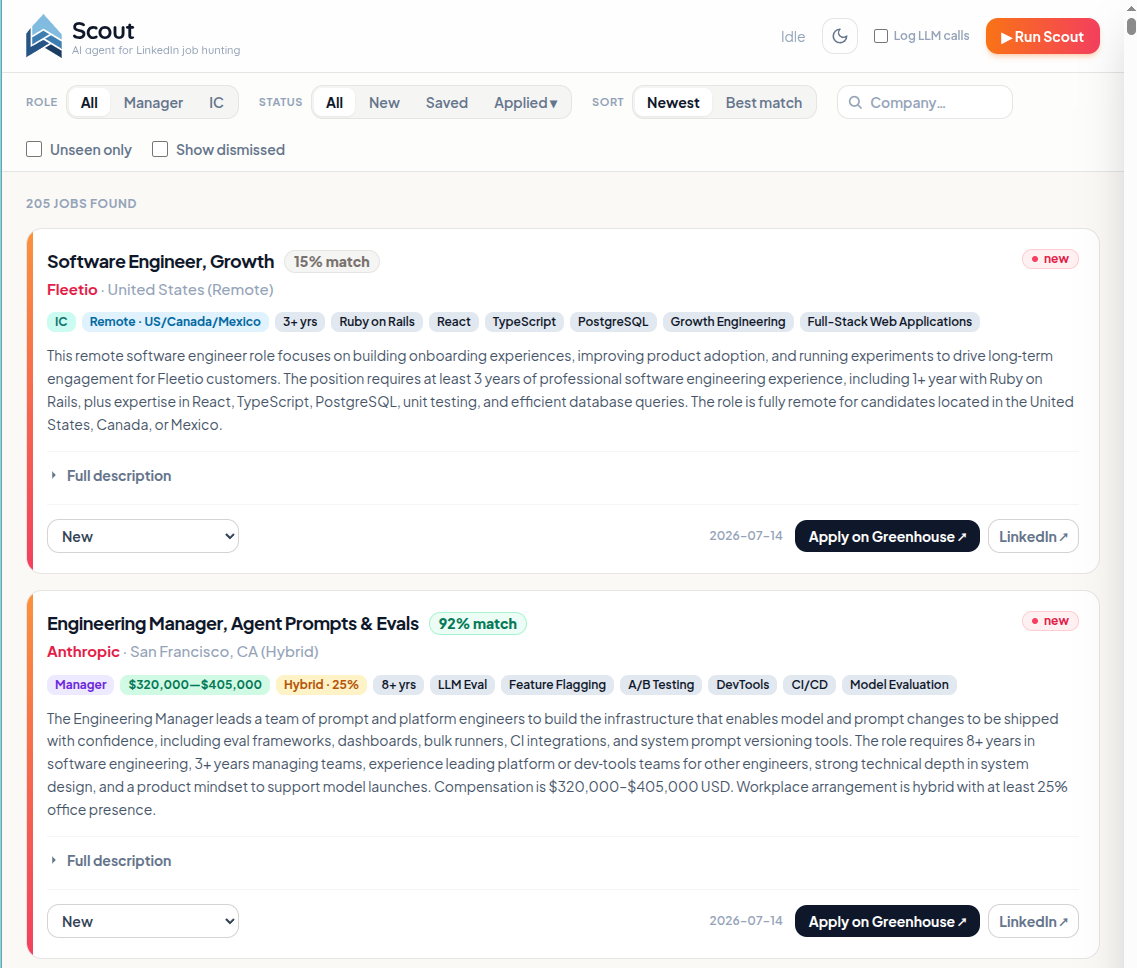
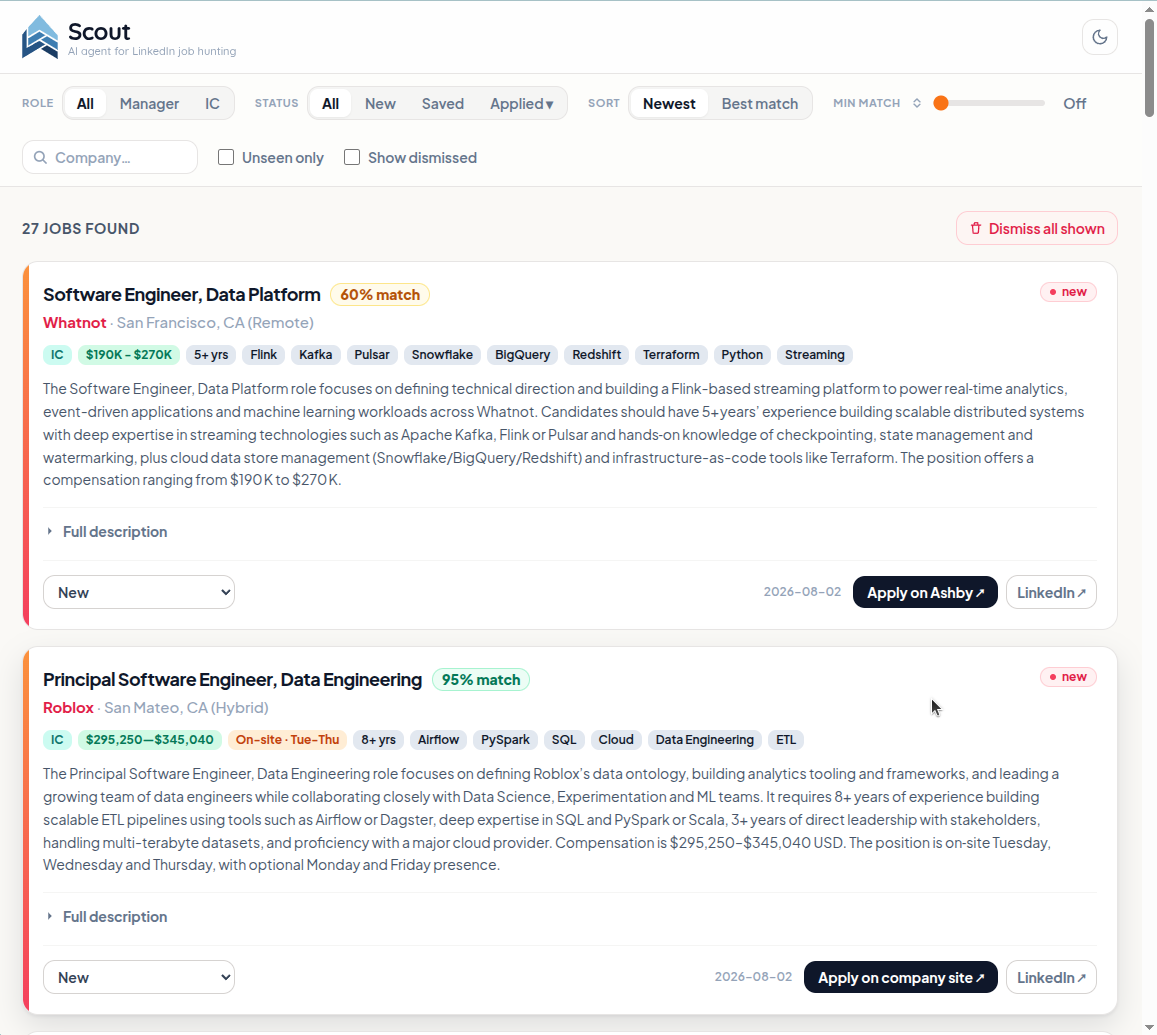
Add versioning system, release-branch workflow, and refresh README assets
Introduces release_notes.md + a manual x.y.z release checklist, then
extends it with a release/x.y.z branch model (with a hotfix/* escape
hatch) so day-to-day work no longer lands directly on main. Also swaps in
an updated screenshot and a new extension-demo GIF for the README.

diff --git a/CONTRIBUTING.md b/CONTRIBUTING.md
@@ -19,26 +19,41 @@ doesn't have to reverse-engineer them from the diff history.
 
 ## Workflow
 
-`main` is protected: it requires a pull request to merge, force-pushes are
-blocked, and the branch can't be deleted. There is no situation where you
-should push directly to `main`.
+Scout uses a release-branch model, not plain trunk-based development.
+`release/x.y.z` — not `main` — is the **default branch** and the active
+integration branch for the in-progress release: all feature and bugfix work
+PRs into it throughout the cycle. `main` only moves once, at the very end of
+a cycle, when the finished `release/x.y.z` branch is merged in and tagged
+(see "Releasing" below). Both `main` and every `release/*` branch are
+protected: a pull request is required to merge, force-pushes are blocked,
+and neither can be deleted directly (a spent release branch is deleted
+explicitly as the last step of the Releasing checklist, not by a stray
+force-push or admin override). The one exception to "work lands on
+`release/x.y.z`, not `main`" is a **hotfix** — an urgent fix to
+already-shipped code that can't wait for the current release cycle to
+finish, which branches from and merges directly to `main`; see "Hotfixes"
+below.
 
-Every push and every PR against `main` automatically runs the test suite via
+Every push and every PR against `main` or a `release/*` branch automatically
+runs the test suite via
 [GitHub Actions](https://github.com/abraham-jacob/scout/blob/main/.github/workflows/tests.yml)
 — that's the "Tests" and "Coverage" badges at the top of the README. A PR
 with a failing run is visible immediately in the PR's checks tab.
 
-1. **Branch from `main`.** Never commit on `main` directly.
+1. **Branch from the current release branch**, not `main` — check
+   `git branch --show-current` on a fresh clone/pull to confirm which
+   `release/x.y.z` is currently checked out as default.
    ```bash
-   git checkout main && git pull
+   git checkout release/x.y.z && git pull
    git checkout -b your-feature-name
    ```
 2. **Make focused commits.** Prefer several small, well-scoped commits over one
    giant one — it makes review (and future `git blame`) much easier.
 3. **Run the test suite locally before opening a PR** (see below) — don't
    rely on CI to catch something you could've caught in ten seconds.
-4. **Open a PR against `main`.** Describe *why* the change is needed, not just
-   what changed — the diff already shows the what.
+4. **Open a PR against the current `release/x.y.z` branch**, not `main`.
+   Describe *why* the change is needed, not just what changed — the diff
+   already shows the what.
 5. **Keep the PR focused.** One logical change per PR. If you notice something
    unrelated that needs fixing, file it separately.
 
@@ -129,6 +144,99 @@ Explain the *why* — the motivation or the bug being fixed — not just a
 restatement of the diff. Keep the subject line short; use the body for
 context if it's needed. Match the tone/format of existing history
 (`git log --oneline`) rather than inventing a new convention.
+
+## Releasing
+
+Scout uses `x.y.z` [semantic versioning](https://semver.org/). There's no
+publish step (no package registry, no Chrome Web Store) — a release is just
+a git tag plus a GitHub Release, and it's a manual, deliberate step, not
+automated on every merge. `extension/manifest.json`'s `version` field is the
+single source of truth for the project's version number. Because feature
+work accumulates on `release/x.y.z` throughout a cycle (see "Workflow"
+above), cutting a release means merging that whole branch into `main`, not
+just bumping a number:
+
+1. On the `release/x.y.z` branch: finalize
+   [`release_notes.md`](release_notes.md) — add/complete the `## [x.y.z] -
+   YYYY-MM-DD` section (reverse-chronological, [Keep a Changelog](https://keepachangelog.com/en/1.1.0/)
+   style: `Added`/`Changed`/`Fixed`/`Removed` subheadings) — and bump
+   `extension/manifest.json`'s `"version"` to match. Commit.
+2. Open a PR from `release/x.y.z` into `main` (title: `Release vx.y.z`) and
+   merge it once CI is green.
+3. Tag the resulting commit on `main`:
+   ```bash
+   git checkout main && git pull
+   git tag -a vx.y.z -m "vx.y.z"
+   git push origin main --tags
+   ```
+4. Create the GitHub Release from the tag:
+   ```bash
+   gh release create vx.y.z --title vx.y.z --notes-file -
+   ```
+   then paste the new `release_notes.md` section's body on stdin (Ctrl-D to
+   finish) — or open `gh release create vx.y.z` without `--notes-file` for
+   an interactive editor instead.
+5. Delete the spent `release/x.y.z` branch — it's fully merged into `main`
+   at this point, so nothing is lost:
+   ```bash
+   git push origin --delete release/x.y.z
+   ```
+6. Cut the next cycle's release branch from `main` and make it the new
+   default branch:
+   ```bash
+   git checkout main && git checkout -b release/x.y+1.0
+   git push origin release/x.y+1.0
+   gh repo edit --default-branch release/x.y+1.0
+   ```
+   `release/*` branches are covered by a repo-wide ruleset, so the new
+   branch is automatically protected (PR required, `test` status check
+   required, no force-push/deletion) — no per-branch protection setup
+   needed.
+
+Steps 2 onward always happen after the release branch's work is done and
+its PR has merged — never tag a branch mid-review.
+
+## Hotfixes
+
+A hotfix is for an urgent fix to code that's **already shipped** (tagged on
+`main`) and can't wait for the current `release/x.y.z` cycle to finish.
+Unlike everything else in "Workflow" above, it branches from and merges
+directly to `main`, skipping the release branch entirely — and then, unlike
+a normal release, it also has to be merged into the *current* release
+branch so that branch doesn't silently regress the fix once it eventually
+merges into `main` itself.
+
+`hotfix/*` branches are covered by their own repo-wide ruleset (PR required,
+`test` status check required, no force-push/deletion), the same protection
+`release/*` branches get.
+
+1. Branch from `main`, not the current release branch:
+   ```bash
+   git checkout main && git pull
+   git checkout -b hotfix/x.y.z
+   ```
+   `x.y.z` is the next **patch** version above whatever's currently tagged
+   on `main` (e.g. `main` at `v0.1.0` → `hotfix/0.1.1`).
+2. Fix the bug and add a regression test. Commit.
+3. On the hotfix branch, add a `## [x.y.z] - YYYY-MM-DD` entry to
+   `release_notes.md` (typically just a `Fixed` subsection) and bump
+   `extension/manifest.json`'s `"version"` to match.
+4. Open a PR from `hotfix/x.y.z` into `main` (title: `Hotfix vx.y.z`), merge
+   once CI is green.
+5. Tag and release from `main`, exactly like a normal release:
+   ```bash
+   git checkout main && git pull
+   git tag -a vx.y.z -m "vx.y.z"
+   git push origin main --tags
+   gh release create vx.y.z --title vx.y.z --notes-file -
+   ```
+6. **Merge the fix into the active `release/x.y.z` branch too** — open a
+   second PR, `hotfix/x.y.z` into the current release branch (or
+   cherry-pick the fix commit if the branches have diverged too much for a
+   clean merge). **Don't skip this step** — it's the one that's easy to
+   forget, and forgetting it means the fix silently disappears the moment
+   the release branch eventually merges into `main` and overwrites it.
+7. Delete `hotfix/x.y.z` once both merges (step 4 and step 6) are done.
 
 ## Reporting bugs / requesting features
 

diff --git a/release_notes.md b/release_notes.md
@@ -1,0 +1,55 @@
+# Release Notes
+
+All notable changes to Scout are documented here. Format loosely follows
+[Keep a Changelog](https://keepachangelog.com/en/1.1.0/). Versions follow
+[Semantic Versioning](https://semver.org/) as best applies to a personal,
+single-user tool — Scout has no published package or API for anything else
+to depend on, so a version bump communicates *how much changed*, not a
+compatibility contract. `extension/manifest.json`'s `version` field is the
+single source of truth for the project's version number.
+
+## [0.1.0] - 2026-08-01
+
+### Added
+
+- **Chrome extension (`extension/`) for Pass 1 scraping.** Its content
+  script scrapes LinkedIn's Voyager API from inside the user's own
+  authenticated tab — same-origin requests, no CDP fingerprint — replacing
+  the CDP-driven automation that kept triggering LinkedIn's bot-detection
+  challenge. Requests go out sequentially with random jitter instead of in
+  a burst, and any block/auth-loss signal (HTTP 999/401/403) halts the run
+  immediately rather than retrying into it.
+- **Extension popup** as the new trigger/monitor UI: saved searches, a
+  Custom Search box (any LinkedIn search URL, job URL, or bare job ID), and
+  a Scrape Current Page button, each with live progress during the harvest
+  and polled Pass 2/3 progress after ingest.
+- **Halt/resume.** A halted run persists its pending job ids to
+  `chrome.storage.local` and offers a Resume button — including after the
+  popup itself has been closed and reopened.
+- New backend routes: `GET /api/extension/searches`,
+  `POST /api/extension/dedupe`, `POST /api/extension/ingest`,
+  `GET /api/extension/status`.
+- New optional `[extension]` config section (`min_delay_ms`/`max_delay_ms`)
+  for tuning the Voyager request pacing.
+
+### Changed
+
+- The web UI no longer triggers scrapes — the "Run Scout" button, the
+  URL/job-ID paste field, and the full run drawer are gone, replaced by a
+  lightweight "Scout is running…" status banner. Triggering and monitoring
+  runs now lives entirely in the extension popup.
+- `agent/runner.py`'s scrape-independent pipeline tail (deterministic
+  filters → clean → enrich → save) is now shared, via
+  `_process_scraped_jobs()`/`process_ingested_jobs()`, between the CDP path
+  and extension-sourced jobs — both are processed identically.
+
+### Fixed
+
+- A run in progress could look idle (all buttons enabled) if the extension
+  popup was closed and reopened mid-scrape, risking a duplicate run being
+  started against the same search.
+
+Docs (`README.md`, `CLAUDE.md`, `CONTRIBUTING.md`, `profiles/README.md`)
+updated to describe the extension as the default Pass 1 path; the CDP-driven
+scrape (`agent/scrape_prompt.md`) stays in place as a fallback until the
+extension is proven in longer real-world use.

diff --git a/README.md b/README.md
@@ -8,6 +8,7 @@
 </div>
 
 [![Python 3.12](https://img.shields.io/badge/python-3.12-blue.svg)](https://www.python.org/downloads/)
+[![Release](https://img.shields.io/github/v/release/abraham-jacob/scout?include_prereleases&sort=semver)](https://github.com/abraham-jacob/scout/releases)
 [![Tests](https://github.com/abraham-jacob/scout/actions/workflows/tests.yml/badge.svg?branch=main)](https://github.com/abraham-jacob/scout/actions/workflows/tests.yml)
 [![Coverage](https://raw.githubusercontent.com/abraham-jacob/scout/badges/coverage.svg)](https://github.com/abraham-jacob/scout/actions/workflows/tests.yml)
 [![Branch protection: enabled](https://img.shields.io/badge/branch%20protection-enabled-blue.svg)](https://github.com/abraham-jacob/scout/branches)
@@ -65,7 +66,9 @@ Scout is three LLM passes with cheap deterministic filtering in between, orchest
 
 4. **Pass 3 — Enrich & score.** One parallel LLM call per job classifies it into one of *your* configured role types (or drops it as `Other`), writes a 2–4 sentence summary, tags it (workplace, salary, stack, team size…), and scores it against your resume, per-role profile, and hard criteria — with dealbreakers capping the score. Results land in DuckDB; the web UI serves them with filtering, search, and an application-status pipeline.
 
-The extension's popup streams Pass 1 live as it happens — which job it's fetching, live progress counts — then keeps streaming once Pass 2/3 pick up server-side, right through to a saved-jobs summary. *(Screenshot coming once the extension settles from a few more days of real use.)*
+The extension's popup streams Pass 1 live as it happens — which job it's fetching, live progress counts — then keeps streaming once Pass 2/3 pick up server-side, right through to a saved-jobs summary.
+
+<img src="docs/images/run_drawer.gif" alt="The Scout extension popup streaming a run: live Pass 1 progress, then Pass 2/3 enrichment, through to a saved-jobs summary" width="100%">
 
 <br>
 
